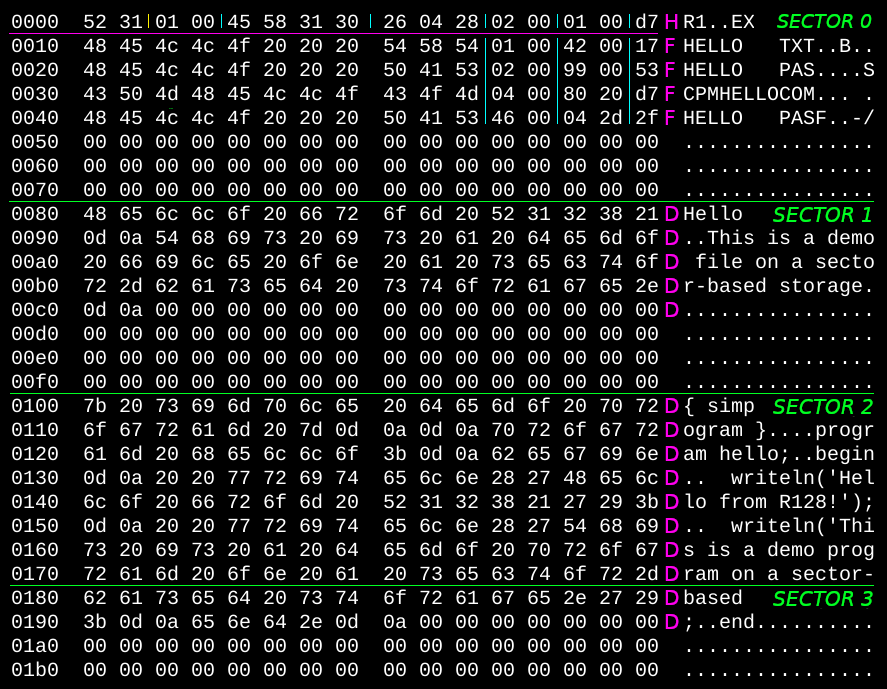
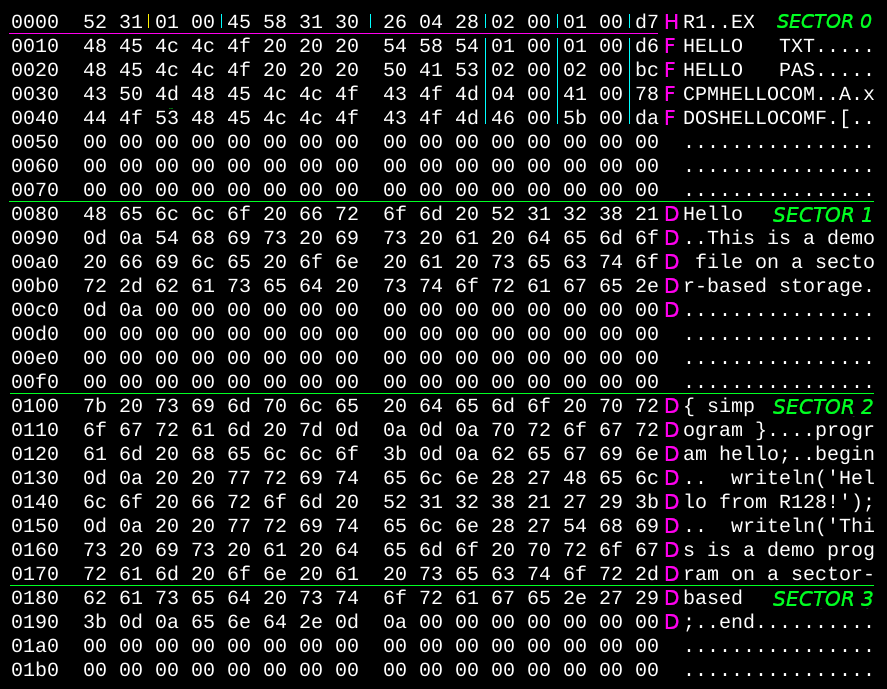
260503

diff --git a/example/README.md b/example/README.md
@@ -2,14 +2,15 @@
 
 ## Directory content
 
-|file           |description                                 |
-|---------------|--------------------------------------------|
-|_content_      |files related to image content              |
-|_linux_        |entry area source for GNU Assembler on linux|
-|_dos_          |entry area source for NASM on DOS           |
-|_cpm_          |entry area source for ASM and Z80ASM on CP/M|
-|insdata        |inserts content into data area              |
-|mkimages       |makes images and inserts entry area         |
-|r128ex.bin     |binary file with entry area                 |
-|r128exfd.img.gz|gzipped 1.44 MB disk image                  |
-|r128exrm.img.gz|gzipped 27256 EPROM image                   |
+|file           |description                                      |
+|---------------|-------------------------------------------------|
+|_content_      |files related to image content                   |
+|_linux_        |entry area source for GNU Assembler on Linux     |
+|_dos_          |entry area source for NASM on DOS                |
+|_cpm_          |entry area source for ASM and Z80ASM on CP/M     |
+|dump           |parameterized, filtered hexdump (Bash script)    |
+|insdata        |inserts content into data area (Bash script)     |
+|mkimages       |makes images and inserts entry area (Bash script)|
+|r128ex.bin     |binary file with entry area                      |
+|r128exfd.img.gz|gzipped 1.44 MB disk image                       |
+|r128exrm.img.gz|gzipped 27256 EPROM image                        |

diff --git a/README.md b/README.md
@@ -26,7 +26,7 @@
   1st entry at: sector 0, offset 10h, length 16 bytes.
   - **FLNAME**: File name in 8.3 format, length 11 bytes.
   - **FL1SEC**: First sector of the file data, length 2 bytes.
-  - **FLSIZE**: File size sector number, length 2 bytes.
+  - **FLSIZE**: File size in sector count, length 2 bytes.
   - **FLENCS**: Checksum of this file entry, MOD 256 type, length 1 byte.
 - **data area**: Starts at sector defined by **HD1DSE**. Contains file data
   stored contiguously. Length is determined implicitly from total medium size.
